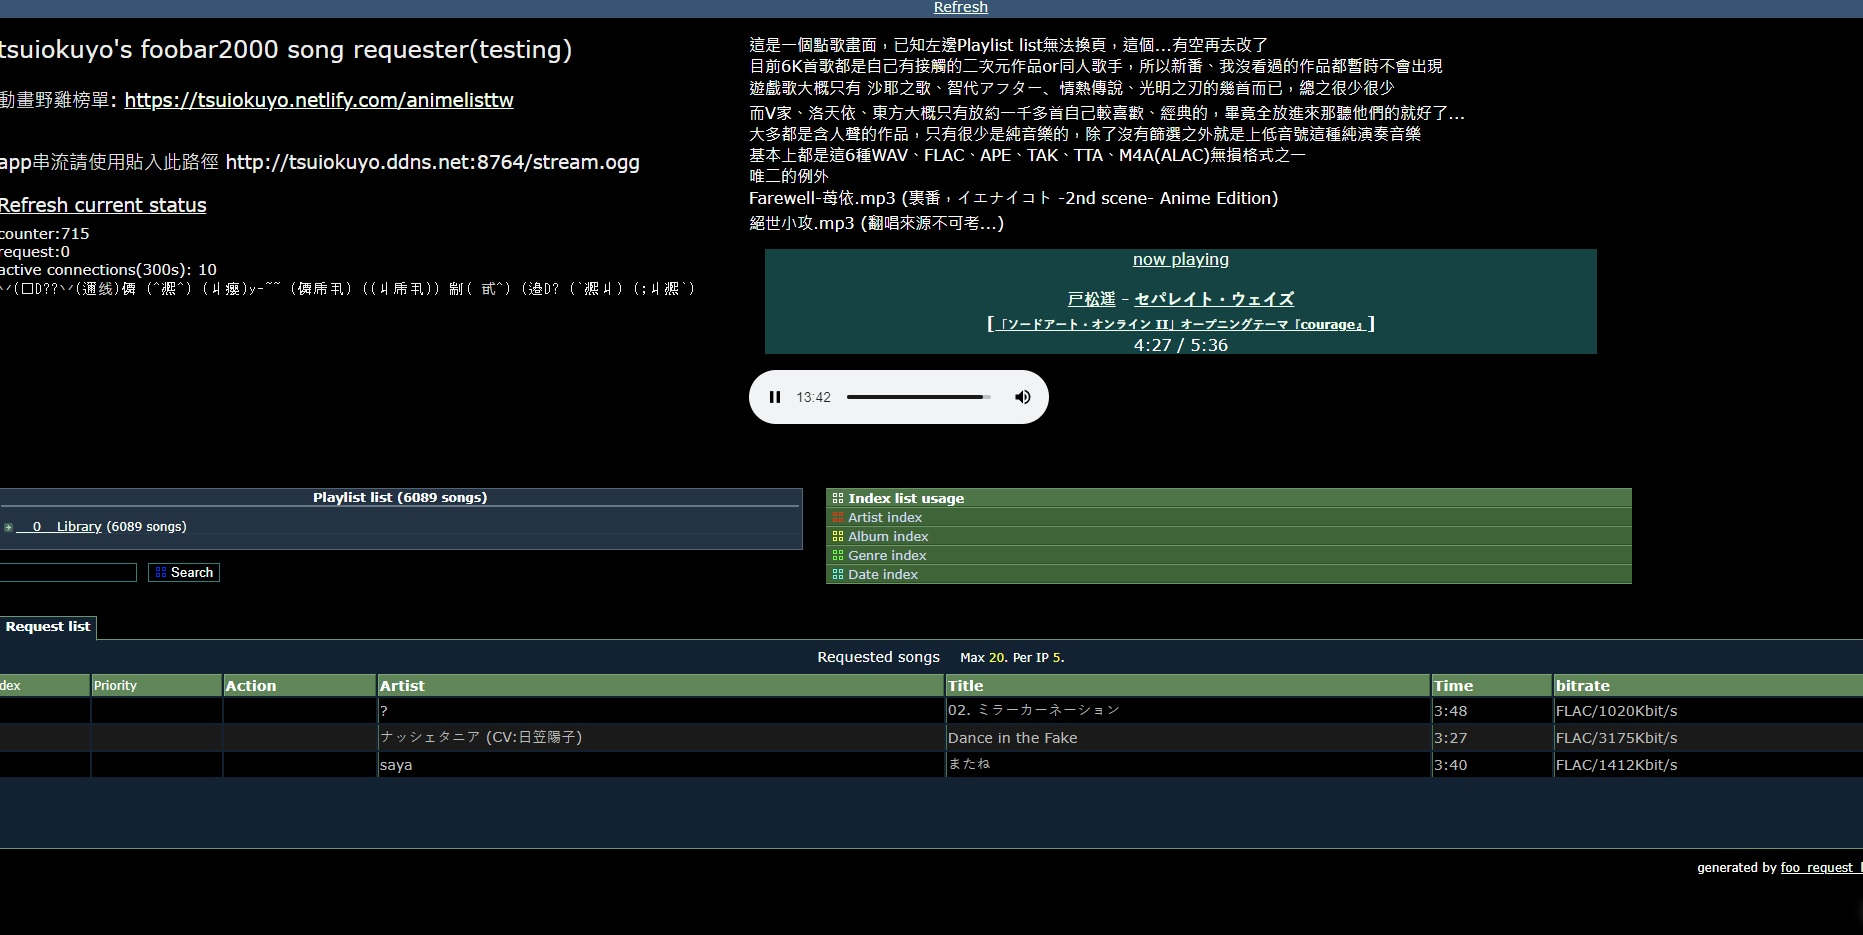
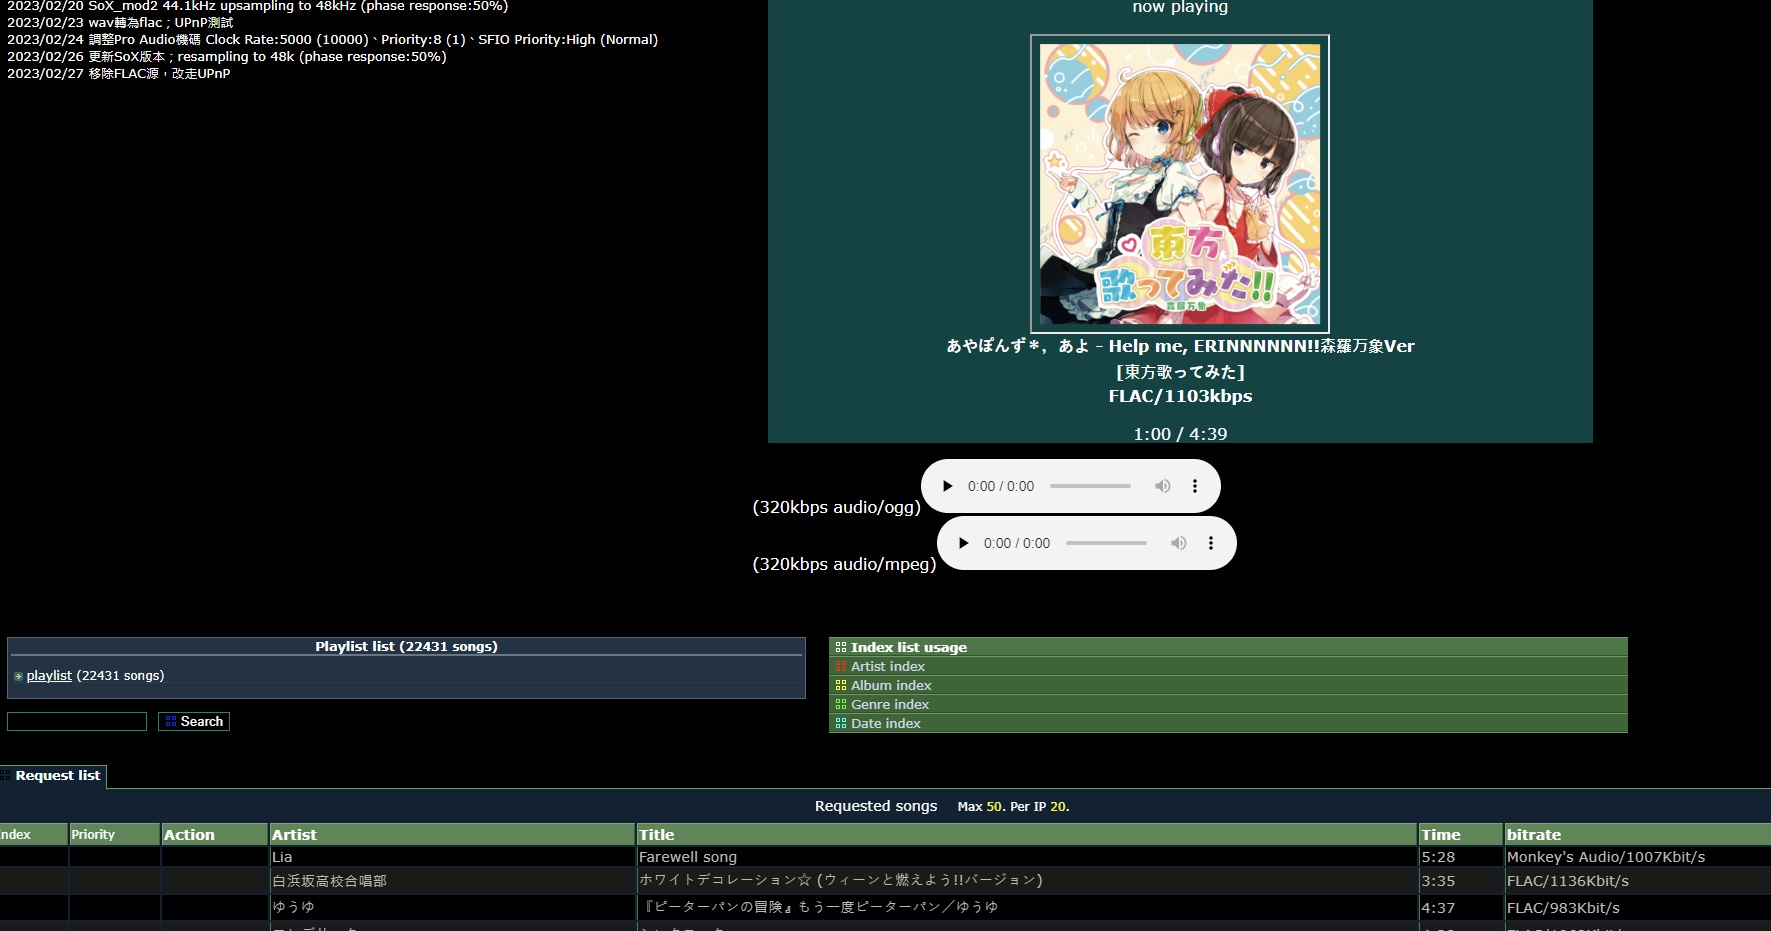
update

diff --git a/content/posts/使用Foobar2000建個基於icecast的網路電台/index.md b/content/posts/使用Foobar2000建個基於icecast的網路電台/index.md
@@ -6,7 +6,7 @@ featuredImage: "/assets/foobar2000.jpg"
 featuredImagePreview: "/assets/foobar2000.jpg"
 tags: [foobar2000]
 categories: [foobar2000]
-lastmod: 2023-02-24
+lastmod: 2023-03-07
 weight: 2
 ---
 
@@ -29,6 +29,10 @@ http://tsuiokuyo.ddns.net:8764/status.xsl
 
 http://tsuiokuyo.ddns.net:8765
 (shoutcast)
+
+2023/03/07 花了一大段時間想辦法在網頁上塞入封面，因為串流的metadata不含圖片資訊，request_http目前幾乎沒有人在玩了，因此也基本上沒有任何更新及討論，反編譯重寫難度太高，所以只能去找其他元件來混用，
+但因為別的元件是區網用的，有直接放到公網會有安全性問題，取得後原始碼把不開放的功能移除，所以花了很多時間建置C++的環境重新編譯dll檔...，實際上90%的時間就是花在建置環境，編譯完成後又遇到跨網域問題...。
+這部分不放上來，因為這部分還沒調整完成，估計會先搞定新版的畫面吧。
 
 2023/02/24 修復換頁千分位錯誤，
 <!--
